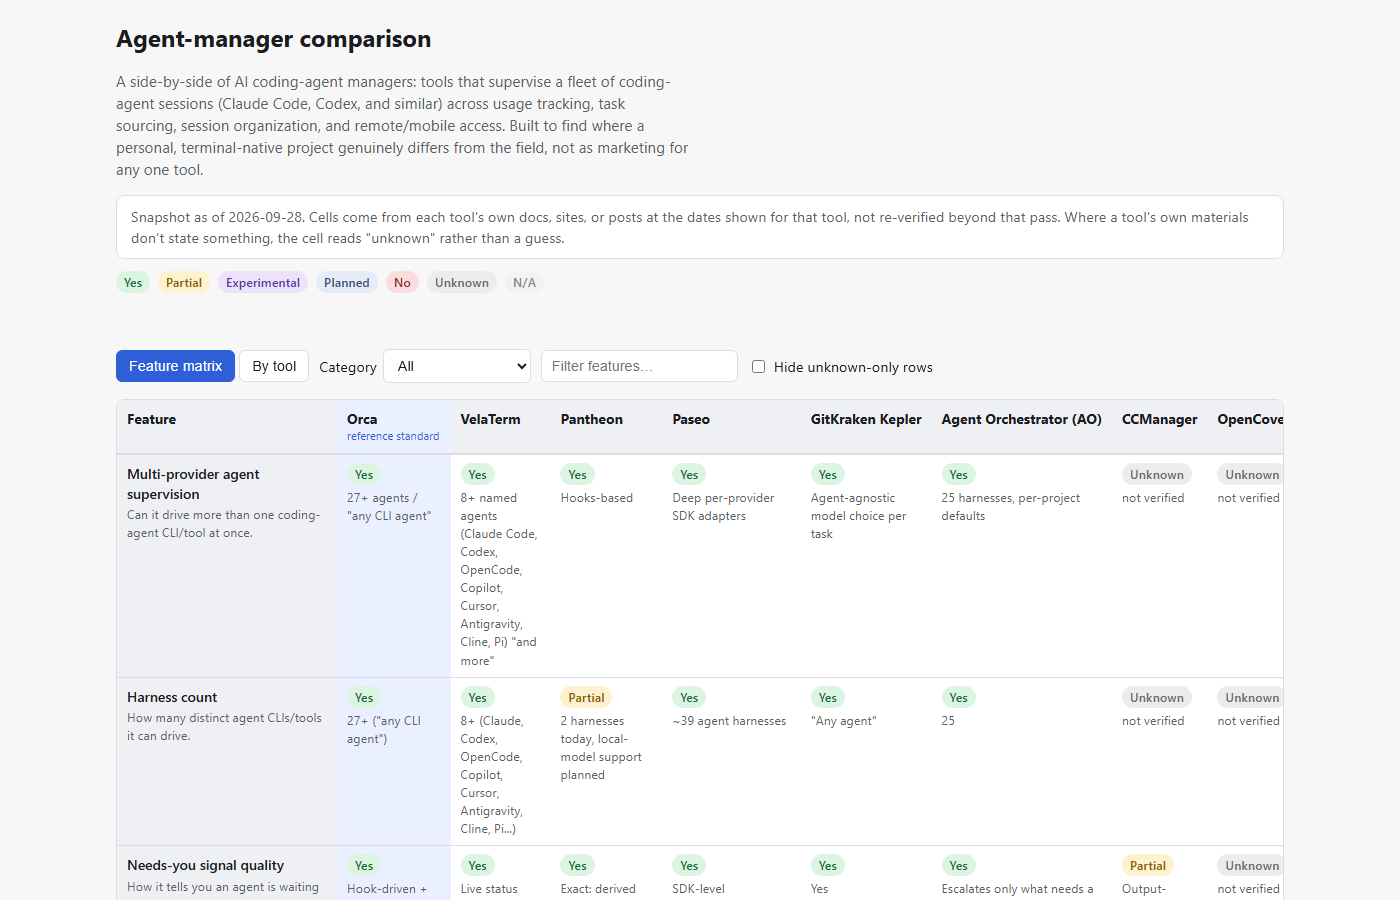
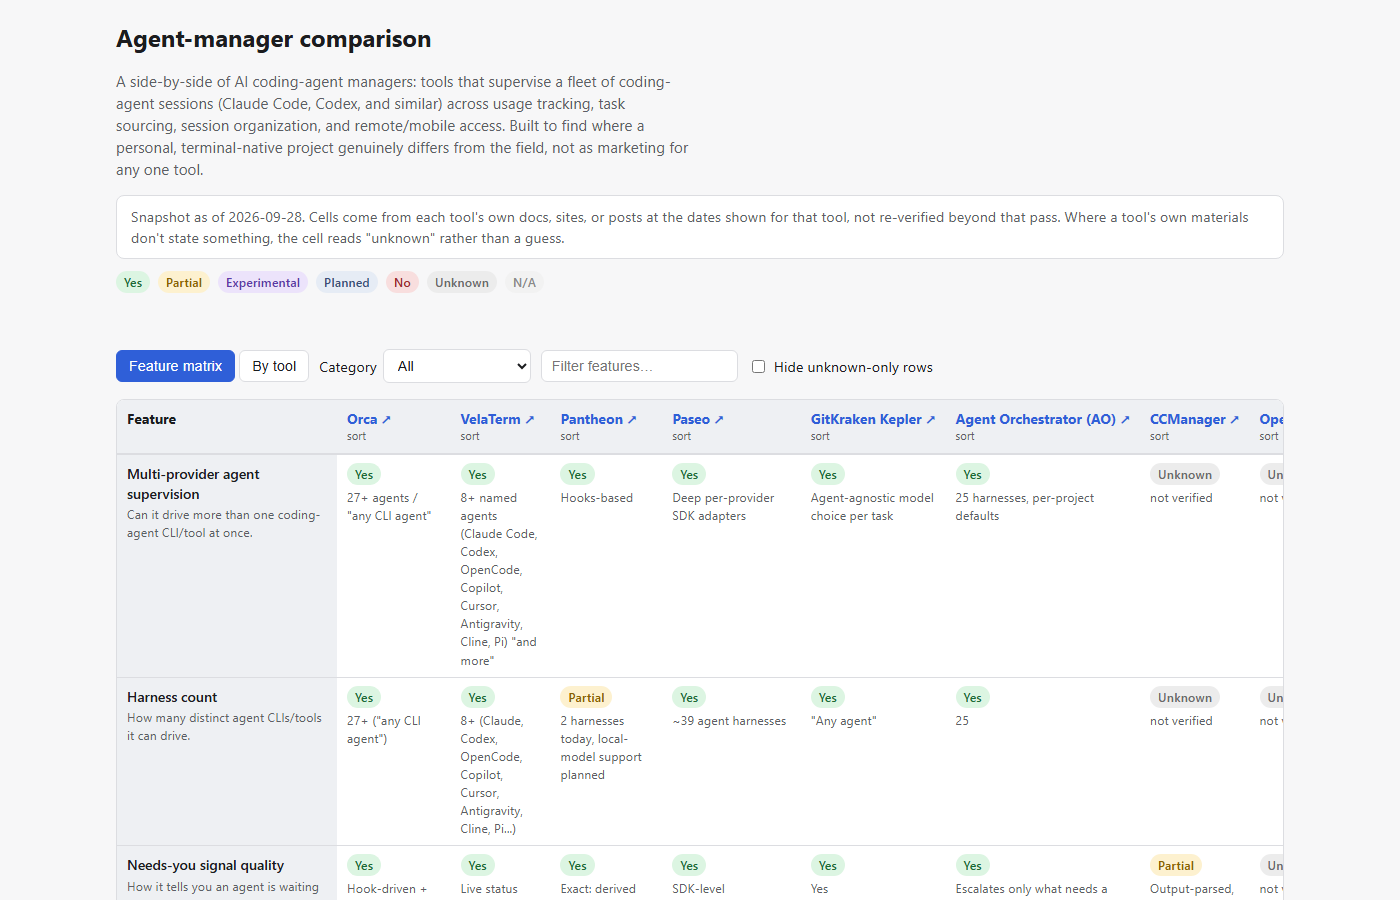
Every tool name links to its site or repo; matrix headers are links, sort stays on the header

diff --git a/index.html b/index.html
@@ -99,6 +99,9 @@
     border-bottom: 2px solid var(--border);
   }
   thead th:hover { color: var(--accent); }
+  thead th a { text-decoration: none; }
+  thead th a:hover { text-decoration: underline; }
+  .sort-hint { display: block; font-size: 0.7rem; font-weight: normal; color: var(--muted); }
   #matrix-table th:first-child, #matrix-table td:first-child {
     position: sticky; left: 0; z-index: 2;
     background: var(--sticky-bg);
@@ -259,7 +262,20 @@ function renderMatrix() {
   trh.appendChild(thFeat);
   tools.forEach((t, i) => {
     const th = document.createElement("th");
-    th.textContent = t.name;
+    if (t.url) {
+      const a = document.createElement("a");
+      a.href = t.url; a.target = "_blank"; a.rel = "noopener";
+      a.textContent = t.name + " ↗";
+      a.title = "Open " + t.name + " in a new tab";
+      a.addEventListener("click", e => e.stopPropagation());
+      th.appendChild(a);
+      const s = document.createElement("span");
+      s.className = "sort-hint";
+      s.textContent = "sort";
+      th.appendChild(s);
+    } else {
+      th.textContent = t.name;
+    }
     th.addEventListener("click", () => {
       if (sortToolIdx === i) { sortDir *= -1; } else { sortToolIdx = i; sortDir = 1; }
       renderMatrix();

diff --git a/tools/build_data.py b/tools/build_data.py
@@ -185,7 +185,7 @@ pantheon = {
 
 # ---- Paseo ----
 paseo = {
-    "name": "Paseo", "url": None, "category": "agent manager",
+    "name": "Paseo", "url": "https://paseo.sh", "category": "agent manager",
     "where_agents_run": "your machine + cloud (self-hosted relay or Tailscale) + mobile + web",
     "license": "Apache-2.0, free", "checked_on": "2026-09-06 (source- and hands-on-verified)",
     "source_note": "Source-verified and installed/live-tested.",
@@ -230,7 +230,7 @@ paseo = {
 
 # ---- Kepler ----
 kepler = {
-    "name": "GitKraken Kepler", "url": None, "category": "agent manager",
+    "name": "GitKraken Kepler", "url": "https://www.gitkraken.com/kepler", "category": "agent manager",
     "where_agents_run": "your machine (Win/Mac/Linux) plus SSH/WSL remote execution",
     "license": "commercial, free tier", "checked_on": "2026-09-06 (site-verified)",
     "source_note": "Site-verified, not installed.",
@@ -275,7 +275,7 @@ kepler = {
 
 # ---- AO ----
 ao = {
-    "name": "Agent Orchestrator (AO)", "url": None, "category": "agent manager",
+    "name": "Agent Orchestrator (AO)", "url": "https://github.com/Untrivial-ai/agent-orchestrator", "category": "agent manager",
     "where_agents_run": "your machine + mobile companion (LAN/Tailscale)",
     "license": "OSS-ish, ~11k stars", "checked_on": "2026-09-06 (site-verified)",
     "source_note": "Site-verified, not installed.",
@@ -332,46 +332,46 @@ def thin(name, url, category, where, license_, note, extra=None):
     return t
 
 ccmanager = thin(
-    "CCManager", None, "agent manager", "your machine (Linux/macOS)",
+    "CCManager", "https://github.com/kbwo/ccmanager", "agent manager", "your machine (Linux/macOS)",
     "unknown", "Evaluated and not adopted (2026-09-01). Terminal session manager; state detection parses tool output rather than reading structured hook events.",
     {"needs_you_signal": c("partial", "Output-parsed, coarser than hook-event-based detection"),
      "runs_in_terminal": c("yes", "TUI session manager")},
 )
 
 opencove = thin(
-    "OpenCove", None, "agent manager", "your machine (desktop)",
+    "OpenCove", "https://github.com/DeadWaveWave/opencove", "agent manager", "your machine (desktop)",
     "unknown", "Alpha desktop canvas of agent sessions, used here as a visual-design reference; its state-detection mechanism is undocumented.",
 )
 
 wave = thin(
-    "Wave Terminal", None, "agent manager", "your machine",
+    "Wave Terminal", "https://www.waveterm.dev", "agent manager", "your machine",
     "unknown", "Terminal with waiting/done badges built on the same hook events Pantheon uses; project has been quiet since 2026-04.",
     {"needs_you_signal": c("yes", "Waiting/done badges from the same hook events"),
      "runs_in_terminal": c("yes", "Yes, it is a terminal")},
 )
 
 vibekanban = thin(
-    "vibe-kanban", None, "agent manager", "your machine",
+    "vibe-kanban", "https://github.com/BloopAI/vibe-kanban", "agent manager", "your machine",
     "unknown", "Used here as a deliberate anti-example: functional but, in the compiler's words, \"boring af.\"",
     {"session_organization": c("yes", "Kanban board")},
 )
 
 t3code = thin(
-    "T3 Code", None, "agent manager", "your machine + mobile",
+    "T3 Code", "https://github.com/pingdotgg/t3code", "agent manager", "your machine + mobile",
     "MIT", "Site/discussion pass only, 2026-09-07. All-platform desktop plus mobile; standout feature is switching models mid-conversation.",
     {"native_mobile_app": c("yes", "Mobile app"),
      "license_cost": c("yes", "MIT")},
 )
 
 superset = thin(
-    "Superset", None, "agent manager", "your machine (macOS, experimental Linux)",
+    "Superset", "https://superset.sh", "agent manager", "your machine (macOS, experimental Linux)",
     "Elastic-2.0", "Site/discussion pass only, 2026-09-07. Ships a TypeScript SDK and MCP server so agents can spawn agents.",
     {"extensibility": c("yes", "TypeScript SDK plus MCP server so agents can spawn agents"),
      "license_cost": c("yes", "Elastic-2.0")},
 )
 
 conductor = thin(
-    "Conductor", None, "agent manager", "your machine (macOS only)",
+    "Conductor", "https://www.conductor.build", "agent manager", "your machine (macOS only)",
     "proprietary", "Site/discussion pass only, 2026-09-07. Checkpoint/rollback called best-in-class.",
     {"license_cost": c("no", "Proprietary")},
 )
